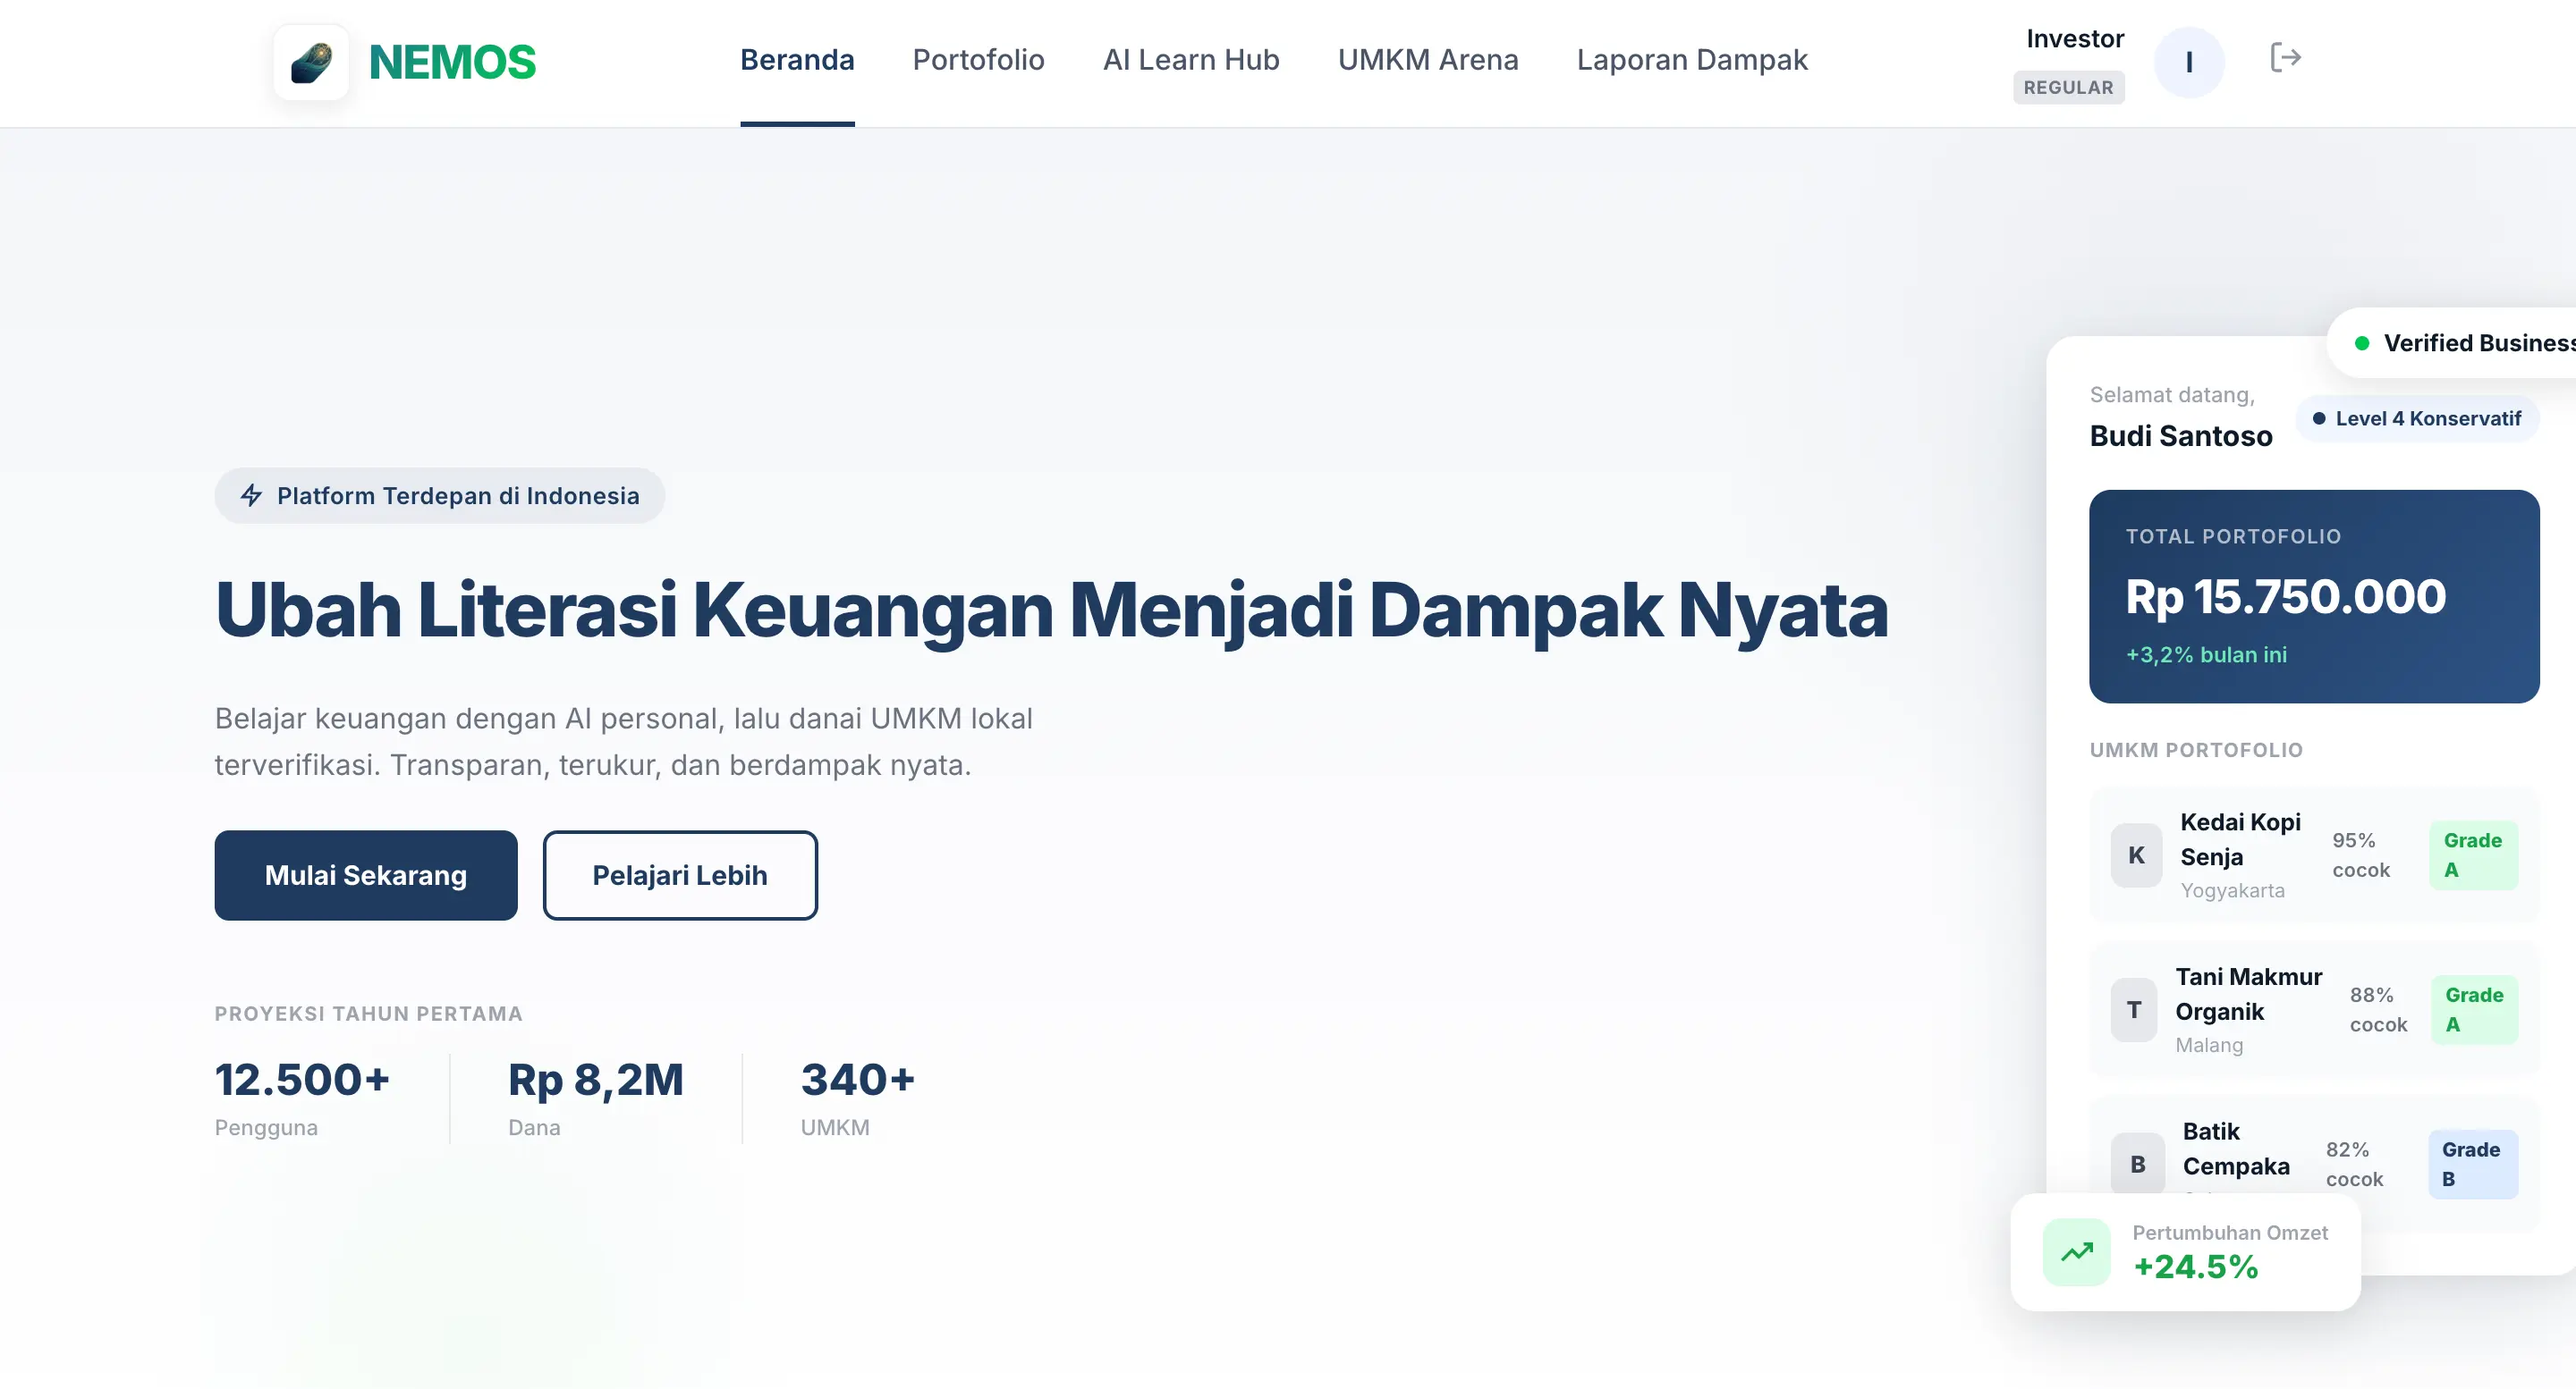
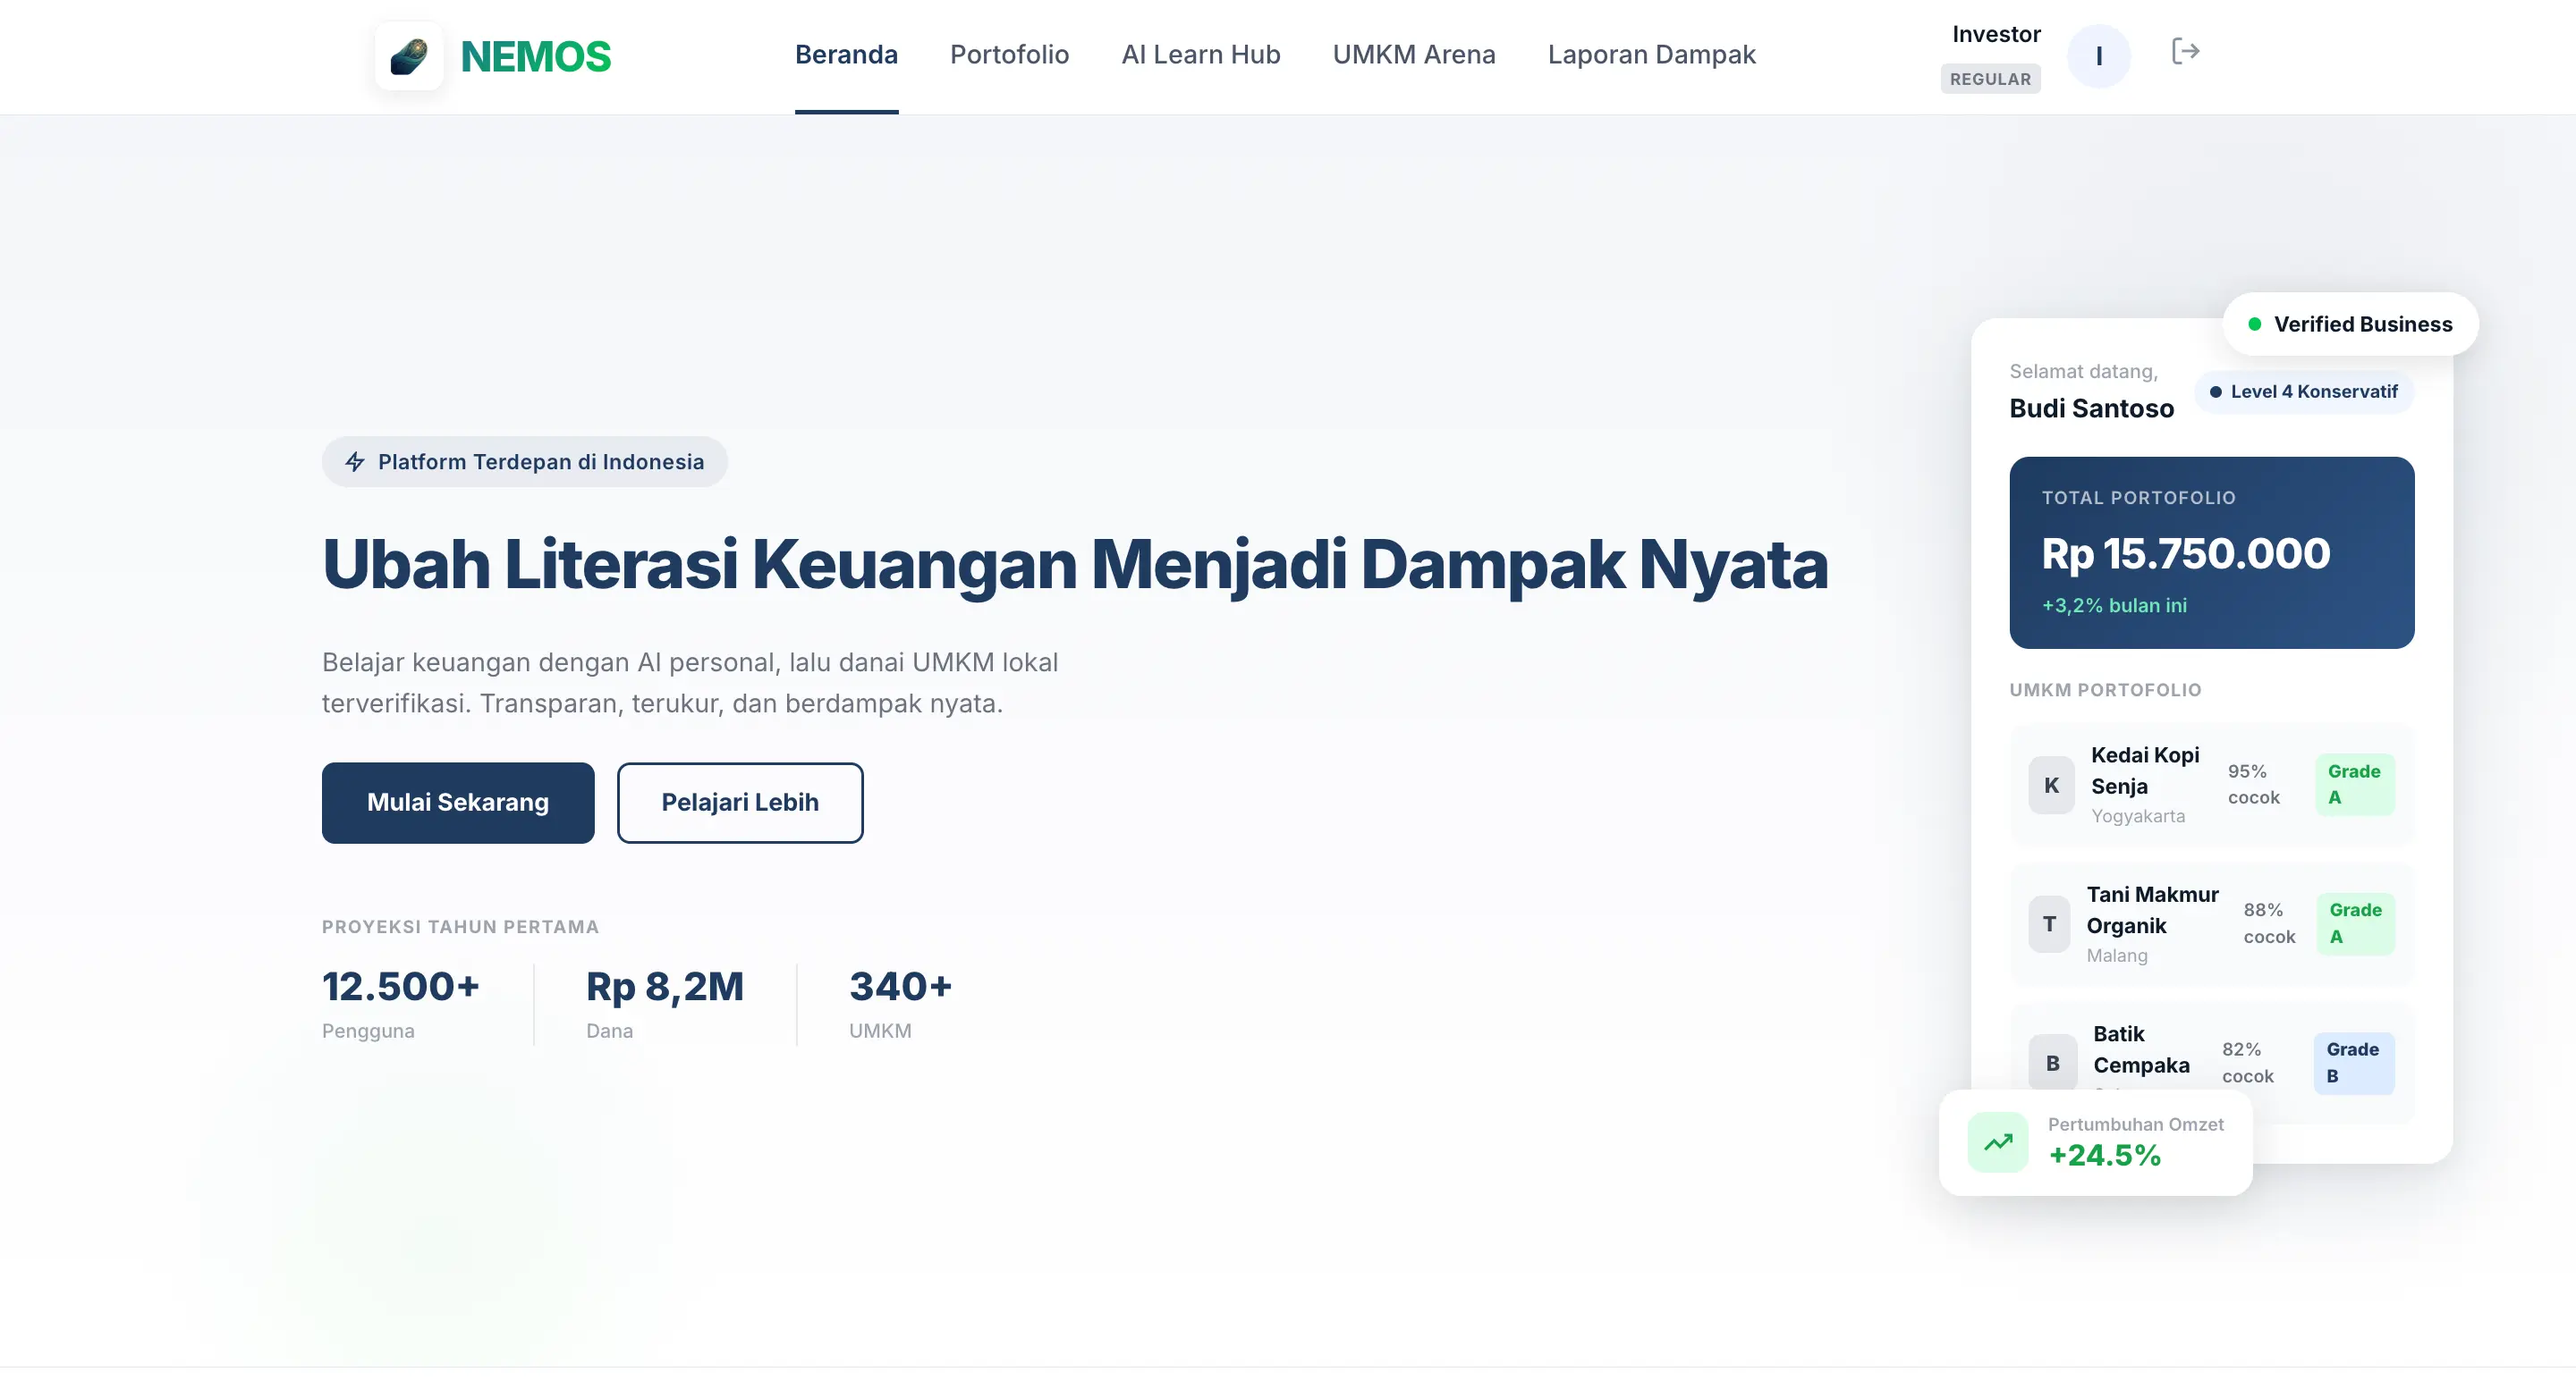
perbaikan: implement na tive lazy and optimizing animation fullscreen

diff --git a/src/components/Projects.jsx b/src/components/Projects.jsx
@@ -5,95 +5,121 @@ const projectsData = [
     id: 'peds-terminal',
     title: 'PEDS Terminal DSS',
     features: [
-      '[📊] RISK_QUANT : Position sizing optimization parameters.',
-      '[🔍] MACRO_FEED : Institutional sentiment tracking mechanism.',
-      '[📈] LIVE_CHART : TradingView interface integration.'
+      { badge: 'RISK', title: 'QUANT', desc: 'Automated portfolio allocation parameters.' },
+      { badge: 'FEED', title: 'MACRO', desc: 'Institutional sentiment tracking mechanism.' },
+      { badge: 'VIEW', title: 'LIVE_CHART', desc: 'Interactive TradingView interface deployment.' }
     ],
-    image: '/assets/peds-terminal.webp',
-    link: '#peds-terminal',
+    image: '/peds-terminal.webp',
+    link: 'https://peds-terminal.vercel.app/',
     isPriority: true,
   },
   {
     id: 'nemos-ecosystem',
     title: 'NEMOS Ecosystem',
     features: [
-      '[💻] DEPLOYMENT : Fullstack server architecture with automated DevOps pipeline.',
-      '[🛡] OPS_STATUS : Secure authentication and real-time operational status monitoring.'
+      { badge: 'CORE', title: 'DEPLOYMENT', desc: 'Fullstack server architecture with automated DevOps pipeline.' },
+      { badge: 'AUTH', title: 'OPS_STATUS', desc: 'Secure authentication and real-time operational status monitoring.' }
     ],
-    image: '/assets/nemos-ecosystem.webp',
-    link: '#nemos-ecosystem',
+    image: '/nemos-ecosystem.webp',
+    link: 'https://nemos-three.vercel.app/',
     isPriority: false,
   },
   {
     id: 'future-project',
     title: 'Next-Gen Aggregator',
     features: [
-      '[⚡] LOW_LATENCY : Sub-millisecond execution routing across fragmented liquidity pools.',
-      '[🔗] CROSS_CHAIN : Seamless interoperability with traditional financial infrastructure.'
+      { badge: 'SYNC', title: 'LOW_LATENCY', desc: 'Sub-millisecond execution routing across fragmented liquidity pools.' },
+      { badge: 'SWAP', title: 'CROSS_CHAIN', desc: 'Seamless interoperability with traditional financial infrastructure.' }
     ],
-    image: '/assets/nemos-ecosystem.webp', // fallback for 3rd item
-    link: '#future-project',
+    image: '',
+    link: '#',
     isPriority: false,
   }
 ];
 
 export default function Projects() {
   return (
-    <section id="builder" className="w-full min-h-screen bg-black py-8 px-4 md:px-8 flex flex-col gap-12 items-center">
+    <section id="builder" className="w-full min-h-screen bg-black py-12 px-4 md:px-8 flex flex-col gap-10 items-center">
         
-        {/* Tighter Compact Section Header */}
-        <div className="w-full max-w-7xl border-b border-neutral-900 pb-2 mb-6">
-          <div className="flex items-center gap-2 text-[10px] font-mono tracking-[0.3em] text-neutral-500 uppercase">
-            <span className="w-4 h-px bg-emerald-900" />
-            <span>02 // PORTFOLIO_ARCHIVE</span>
+        {/* Premium Integrated Header */}
+        <div className="w-full max-w-7xl border-b border-neutral-900 pb-3 mb-6 flex items-center justify-between">
+          <div className="space-y-1">
+            <p className="text-[9px] font-mono tracking-[0.4em] text-emerald-400 bg-emerald-950/30 px-2 py-0.5 rounded border border-emerald-500/20 inline-block uppercase">
+              SEC_02 // DEPLOYED_SYSTEMS
+            </p>
+            <h2 className="text-lg font-bold font-mono tracking-tight text-white uppercase flex items-center gap-2">
+              THE BUILDER ARCHIVE <span className="text-[10px] text-neutral-600 font-normal lowercase">v1.0.4</span>
+            </h2>
           </div>
-          <h2 className="text-lg font-bold font-mono tracking-tight text-white mt-0.5">THE BUILDER DASHBOARD</h2>
+          <div className="hidden sm:flex items-center gap-1.5 font-mono text-[9px] text-neutral-500 bg-neutral-950 px-2 py-1 rounded border border-neutral-900">
+            <span className="w-1.5 h-1.5 rounded-full bg-emerald-500 animate-pulse" />
+            CORE_SYNC: ACTIVE
+          </div>
         </div>
 
-        <div className="w-full max-w-7xl flex flex-col gap-24">
+        <div className="w-full max-w-7xl flex flex-col gap-12">
           {projectsData.map((project, index) => {
             const isEven = index % 2 === 0;
             return (
               <div 
                 key={project.id}
-                className={`w-full grid grid-cols-1 lg:grid-cols-12 gap-6 lg:items-center ${index > 0 ? '[content-visibility:auto]' : ''}`}
+                className={`group w-full bg-gradient-to-b from-neutral-900/30 to-neutral-950/60 border border-neutral-800/60 rounded-3xl p-6 lg:p-8 transition-all duration-500 hover:border-emerald-500/20 hover:shadow-[0_0_40px_rgba(16,185,129,0.02)] ${index > 0 ? '[content-visibility:auto]' : ''}`}
               >
-                {/* Text Container */}
-                <div className={`col-span-1 lg:col-span-5 flex flex-col justify-center ${isEven ? 'lg:order-1' : 'lg:order-2'}`}>
-                  <a href={project.link} className="group block w-fit mb-4">
-                    <h3 className="text-xl font-bold text-white mb-1 group-hover:text-emerald-400 transition-colors">
-                      {project.title} <span className="inline-block transition-transform group-hover:translate-x-0.5 group-hover:-translate-y-0.5">↗</span>
-                    </h3>
-                  </a>
-                  <ul className="space-y-2">
-                    {project.features.map((feature, i) => (
-                      <li key={i} className="text-[13px] text-neutral-400 font-mono leading-relaxed">
-                        {feature}
-                      </li>
-                    ))}
-                  </ul>
-                </div>
-                
-                {/* Media Container */}
-                <div className={`col-span-1 lg:col-span-7 ${isEven ? 'lg:order-2' : 'lg:order-1'}`}>
-                  <a 
-                    href={project.link} 
-                    className="group block relative aspect-video rounded-xl bg-neutral-950 border border-neutral-800/60 p-0.5 overflow-hidden transition-all duration-500 hover:border-emerald-500/30 hover:shadow-[0_0_30px_rgba(16,185,129,0.04)] hover:-translate-y-0.5"
-                  >
-                    <img 
-                      src={project.image} 
-                      alt={project.title}
-                      className="w-full h-full object-cover rounded-lg"
-                      {...(project.isPriority ? { fetchpriority: "high" } : { loading: "lazy" })}
-                    />
-                  </a>
+                <div className="w-full grid grid-cols-1 lg:grid-cols-12 gap-8 lg:items-center">
+                  {/* Text Container */}
+                  <div className={`col-span-1 lg:col-span-5 flex flex-col justify-center ${isEven ? 'lg:order-1' : 'lg:order-2'}`}>
+                    <a href={project.link} className="block w-fit mb-2">
+                      <h3 className="text-xl font-bold text-white mb-2 group-hover:text-emerald-400 transition-colors">
+                        {project.title} <span className="inline-block transition-transform group-hover:translate-x-0.5 group-hover:-translate-y-0.5">↗</span>
+                      </h3>
+                    </a>
+                    <div className="space-y-1 mt-2">
+                      {project.features.map((feature, i) => (
+                        <div key={i} className="flex items-start gap-3 font-mono text-neutral-400 mt-2">
+                          <span className="flex-shrink-0 text-[9px] px-2 py-0.5 rounded font-bold bg-neutral-900 border border-neutral-800 text-neutral-400 group-hover:border-emerald-500/30 group-hover:text-emerald-400 transition-colors uppercase tracking-wider mt-0.5">
+                            {feature.badge}
+                          </span>
+                          <p className="text-xs leading-relaxed">
+                            <strong className="text-neutral-200 font-semibold">{feature.title} :</strong> {feature.desc}
+                          </p>
+                        </div>
+                      ))}
+                    </div>
+                  </div>
+                  
+                  {/* Media Container */}
+                  <div className={`col-span-1 lg:col-span-7 ${isEven ? 'lg:order-2' : 'lg:order-1'}`}>
+                    {project.image ? (
+                      <a 
+                        href={project.link} 
+                        className="block relative w-full aspect-video rounded-xl bg-neutral-950 border border-neutral-800/40 overflow-hidden"
+                      >
+                        <img 
+                          src={project.image} 
+                          alt={project.title}
+                          className="w-full h-full object-cover rounded-xl"
+                          {...(project.isPriority ? { fetchpriority: "high" } : { loading: "lazy" })}
+                        />
+                      </a>
+                    ) : (
+                      <div className="relative w-full aspect-video rounded-xl bg-neutral-950 border border-neutral-900 flex flex-col items-center justify-center overflow-hidden">
+                        <div className="absolute inset-0 bg-[linear-gradient(to_right,#141414_1px,transparent_1px),linear-gradient(to_bottom,#141414_1px,transparent_1px)] bg-[size:20px_20px] opacity-40" />
+                        <div className="text-center space-y-1.5 relative z-10 font-mono">
+                          <p className="text-[10px] text-amber-500/80 tracking-[0.2em] uppercase flex items-center gap-1.5 justify-center">
+                            <span className="w-1 h-1 rounded-full bg-amber-500 animate-ping" /> [ DEV_PHASE ]
+                          </p>
+                          <p className="text-xs text-neutral-500 uppercase">ARCHITECTING LIQUIDITY ENGINE</p>
+                        </div>
+                      </div>
+                    )}
+                  </div>
                 </div>
               </div>
             );
           })}
         </div>
 
-        {/* Compact Directory Button */}
+        {/* Directory Footer */}
         <div className="w-full flex justify-center mt-6">
           <a href="#YOUR_FUTURE_DIRECTORY" className="font-mono text-[9px] tracking-widest text-emerald-400 uppercase py-2.5 px-5 rounded-full bg-emerald-950/10 border border-emerald-500/20 hover:bg-emerald-950/30 hover:border-emerald-500/40 hover:shadow-[0_0_20px_rgba(16,185,129,0.1)] transition-all duration-300">
             [ VIEW_GLOBAL_DIRECTORY_AND_PLATFORMS ↗ ]
